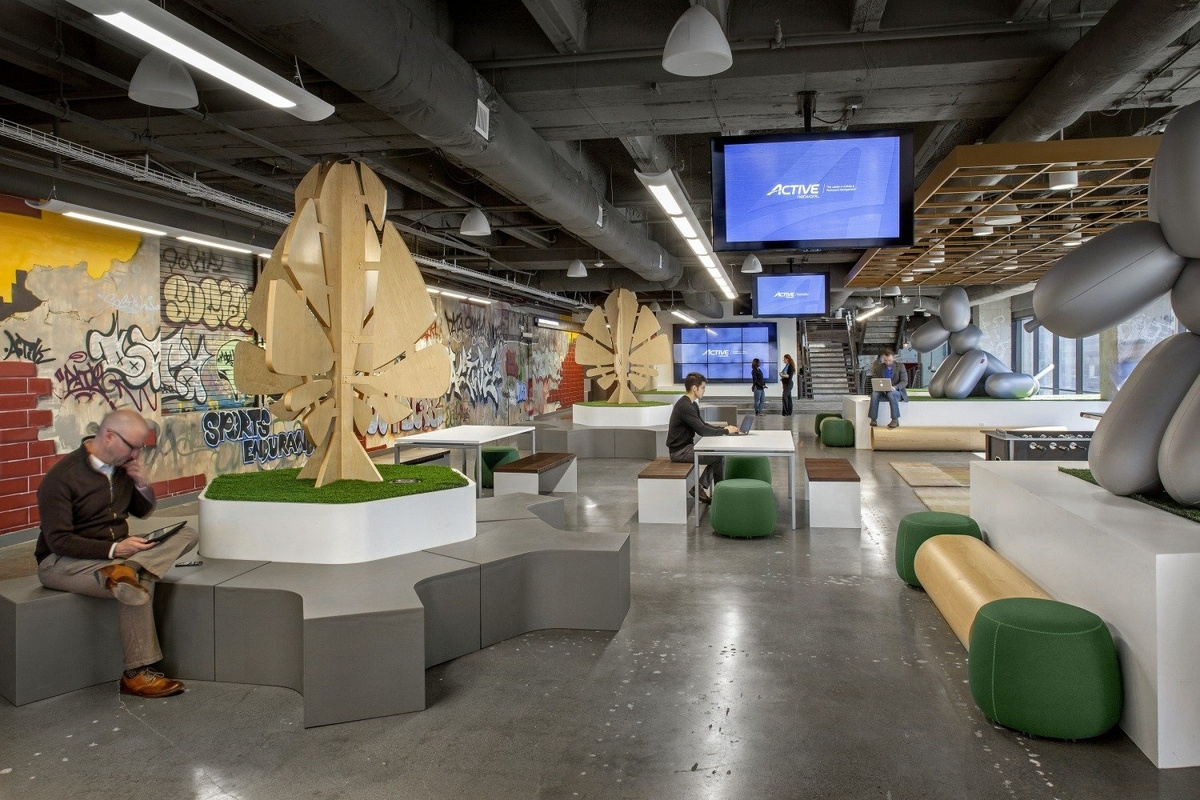
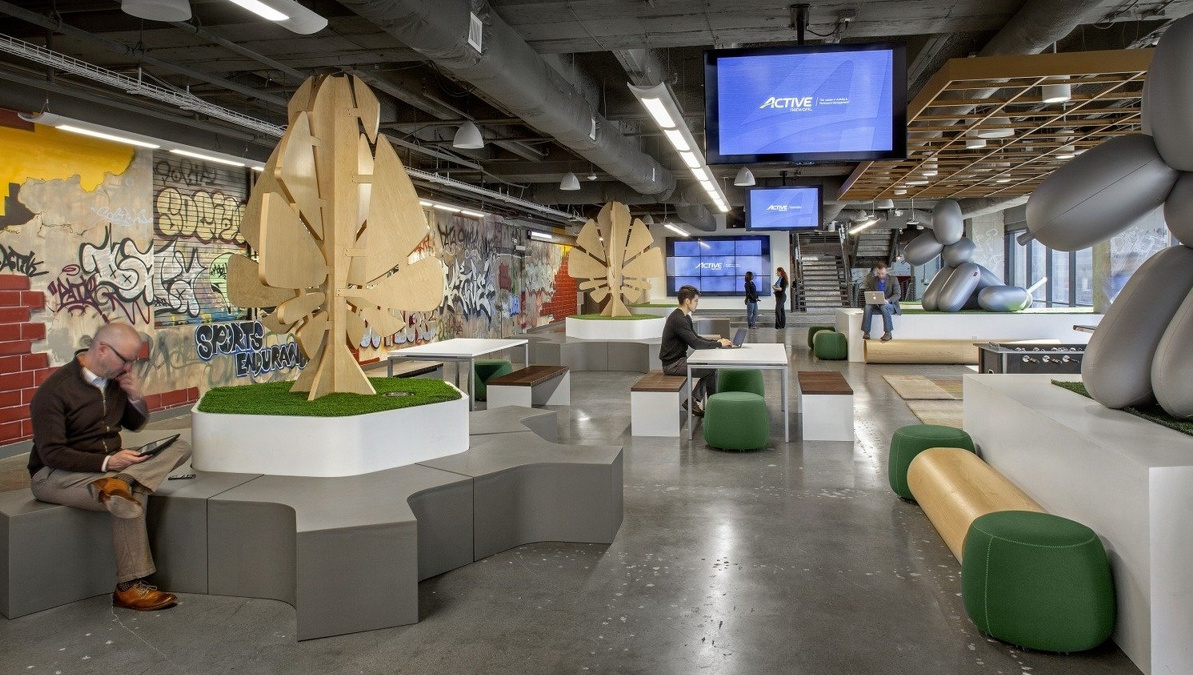
minor tweaks

diff --git a/SwimManager.html b/SwimManager.html
@@ -41,17 +41,19 @@ permalink: /Active/SwimManager/
             
     <h1 class="post-title">Swim Manager: Online Meet Entry</h1>
 
-         <img class="center-block img-responsive" style="width:100%" alt="Image of Active Network's Office" src= "https://prisaki.github.io/site/assets/IMG/AN/active_office2.jpg"/>
+         <img class="center-block img-responsive" style="width:100%" alt="Image of Active Network's Office" src= "https://prisaki.github.io/site/assets/IMG/AN/active_office1.jpg"/>
             
     <h2 class="post-content">Background</h2>
           
-          <p>Swim Manager is a tool that allows meet organizers to schedule events and enables coaches to register their swimmers for events. We received complaints from users that the Online Meet Entry feature (OME) was too time consuming for coaches to use.</p>
+          <p><b>Swim Manager is a desktop program and app</b> that allows meet organizers to schedule events and enables coaches to register their swimmers for events. We received complaints from users that the Online Meet Entry feature (OME) was too time consuming for coaches to use.</p>
           
           <p>I began this research project by speaking with product managers and account managers to gain a base understanding of the products, and then interviewed 7 coaches that ranged from small to large swimming programs.</p>
                     
     <h2 class="post-content">Problem</h2>
             
-          <p>Online Meet Entry (OME) is a feature that enables swimmers to register themselves into upcoming competitions and select specific events in which they want to compete. Allowing swimmers to self-register saves coaches time, but coaches must wait until the registration period ends before they can finalize their teams’ lineups. The registration period typically ends only a few days before the competition, and often happens while teams are traveling or busy preparing for the upcoming competition. Confirming registrations typically takes a few minutes per swimmer, which results in hours of work that must be completed quickly.</p>            
+          <img class="center-block img-responsive" style="width: 100%" alt="Image of the Online Meet Entry feature in Swim Manager" src="https://prisaki.github.io/site/assets/IMG/AN/OME.jpg"/>
+            
+          <p>Online Meet Entry (OME) is a feature that enables swimmers to register themselves into upcoming competitions and select specific events in which they want to compete. Allowing swimmers to self-register saves coaches time, but coaches must wait until the registration period ends before they can finalize their teams’ lineups. The registration period typically ends only a few days before the competition, and often happens while teams are traveling or busy preparing for the upcoming competition. Confirming registrations typically takes a few minutes per swimmer, which results in hours of work that must be completed quickly.</p>    
           
      <h2 class="post-content">Recommendations</h2>
 

diff --git a/Active.html b/Active.html
@@ -41,15 +41,7 @@ permalink: /Active/
         
     <h2 class="post-title-alt">Swim Manager</h2>
                
-            <div class="post-content" style="padding-bottom: 1.7em">
-            
-                <p>Swim Manager is an application that allows coaches and swimmers to register for upcoming swim meets. I looked at a feature called Online Meet Entry, which had received negative feedback from our customers, to understand our customers' pain points and discover ways to improve the program.</p>
-            
-              <a class="boo" href="/Active/SwimManager">More</a> </br>
-   
-            </div>
-    
-              <h2 class="post-title-alt">Exploratory Research into Esports</h2>
+            <h2 class="post-title-alt">Exploratory Research into Esports</h2>
                
             <div class="post-content" style="padding-bottom: 1.7em">
             
@@ -58,12 +50,22 @@ permalink: /Active/
               <a class="boo" href="/Active/Esports">More</a> </br>
    
             </div>
+          
+            <h2 class="post-title-alt">Swim Manager</h2>
+          
+            <div class="post-content" style="padding-bottom: 1.7em">
+            
+                <p>Swim Manager is an application that allows coaches and swimmers to register for upcoming swim meets. I looked at a feature called Online Meet Entry, which had received negative feedback from our customers, to understand our customers' pain points and discover ways to improve the program.</p>
+            
+              <a class="boo" href="/Active/SwimManager">More</a> </br>
+   
+            </div>
         
             <h2 class="post-title-alt">Database Inquiry</h2>
                
             <div class="post-content" style="padding-bottom: 1.7em">
             
-                <p>Active customers include city park and recreation departments. Lately some of them have been using more data analytics tools to better reach out and impact their communities. I interviewed key customers to learn about their complex data ecosystems and identify ways to improve our own data analytics tools.</p>
+                <p>Active customers include city park and recreation departments. Lately our clients have been using more data analytics tools to improve their reach and impact on their communities. I interviewed key customers to learn about their complex data ecosystems and identify ways to improve Active's data analytics tools.</p>
             
               <a class="boo" href="/Active/DataInquiry">More</a> </br>
    
